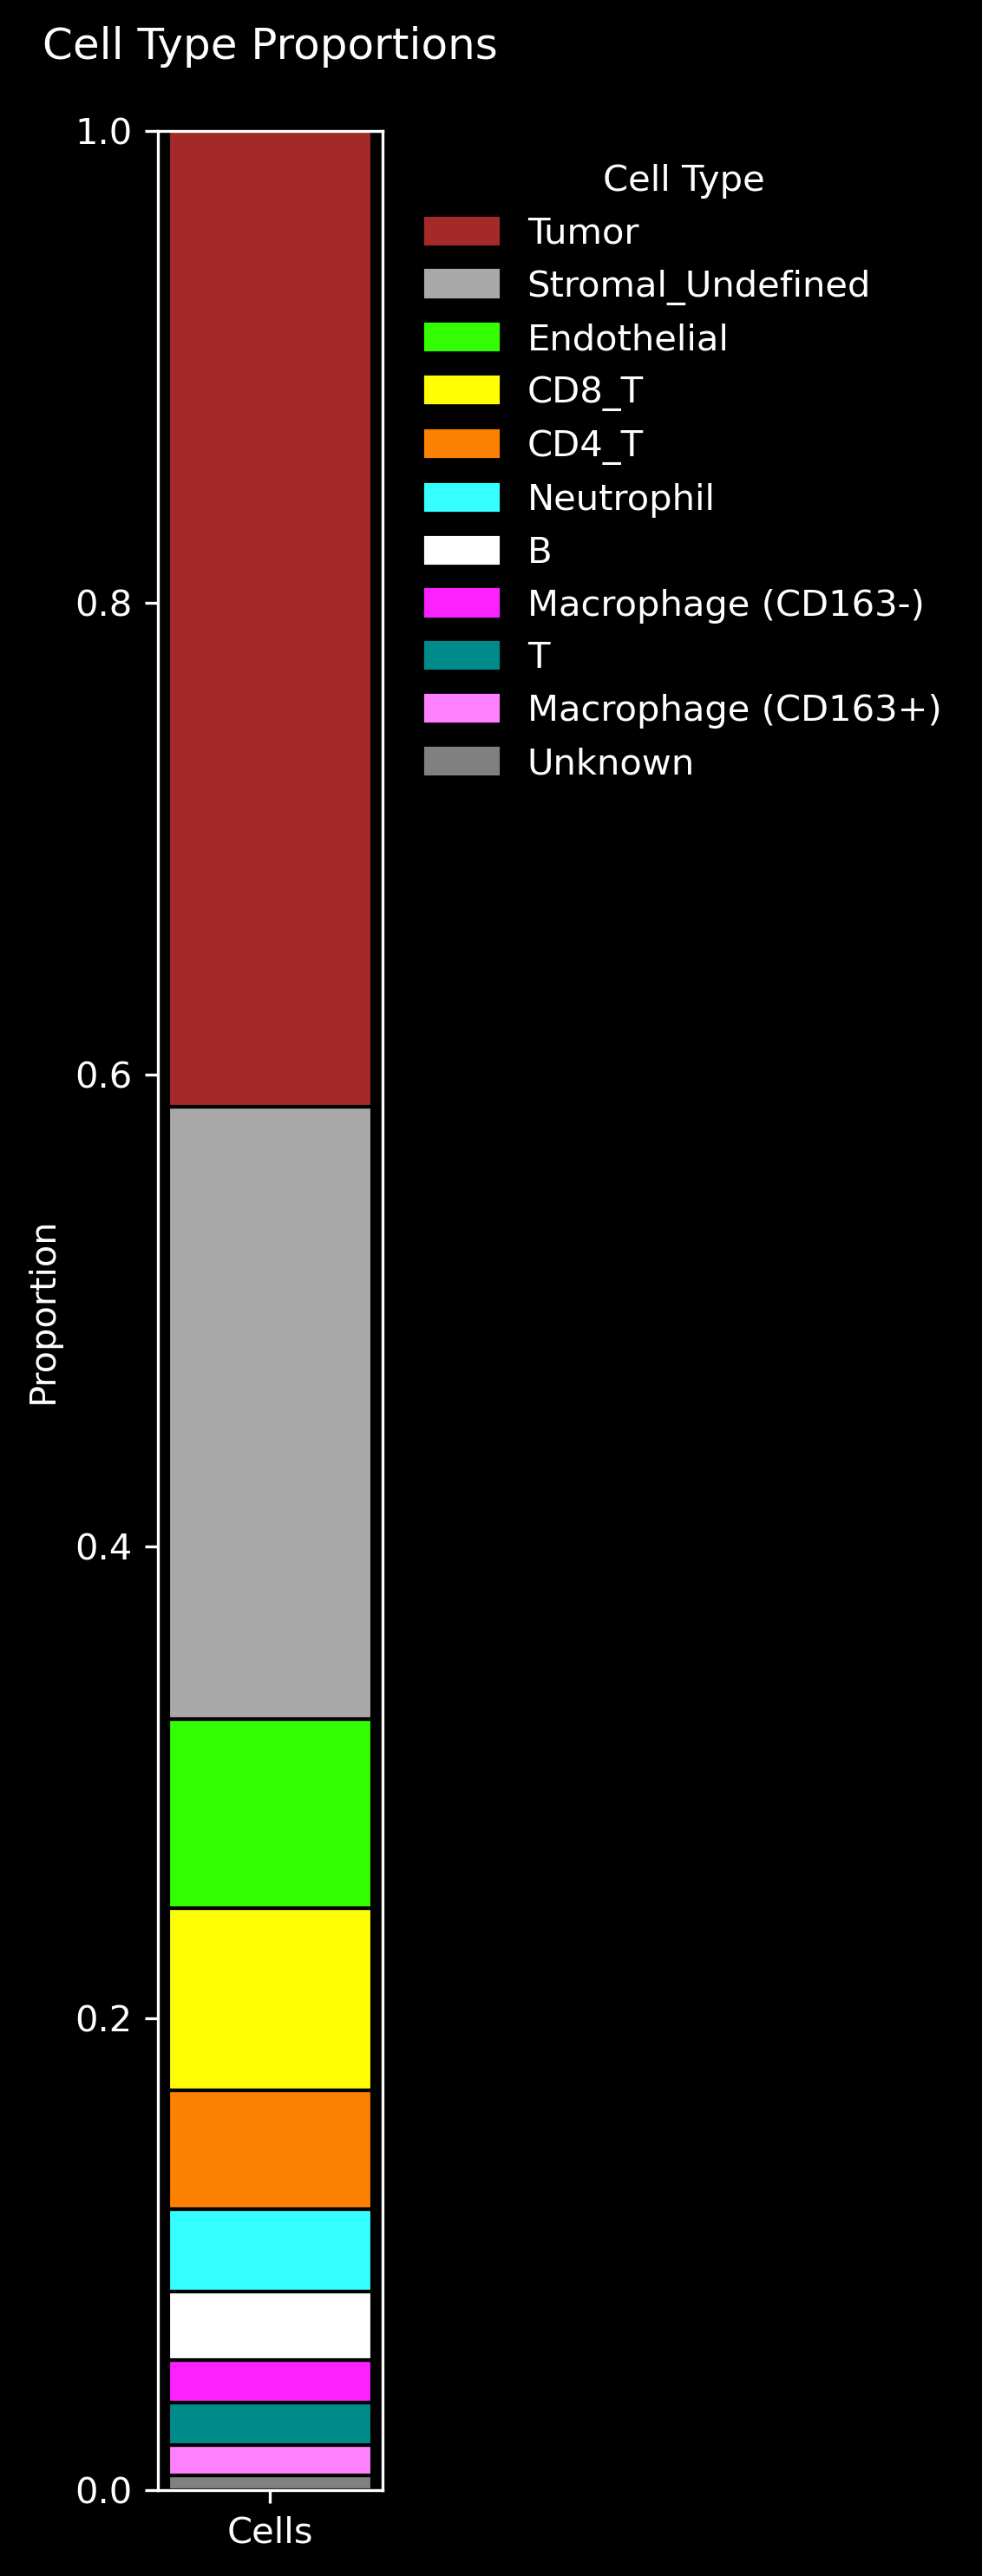
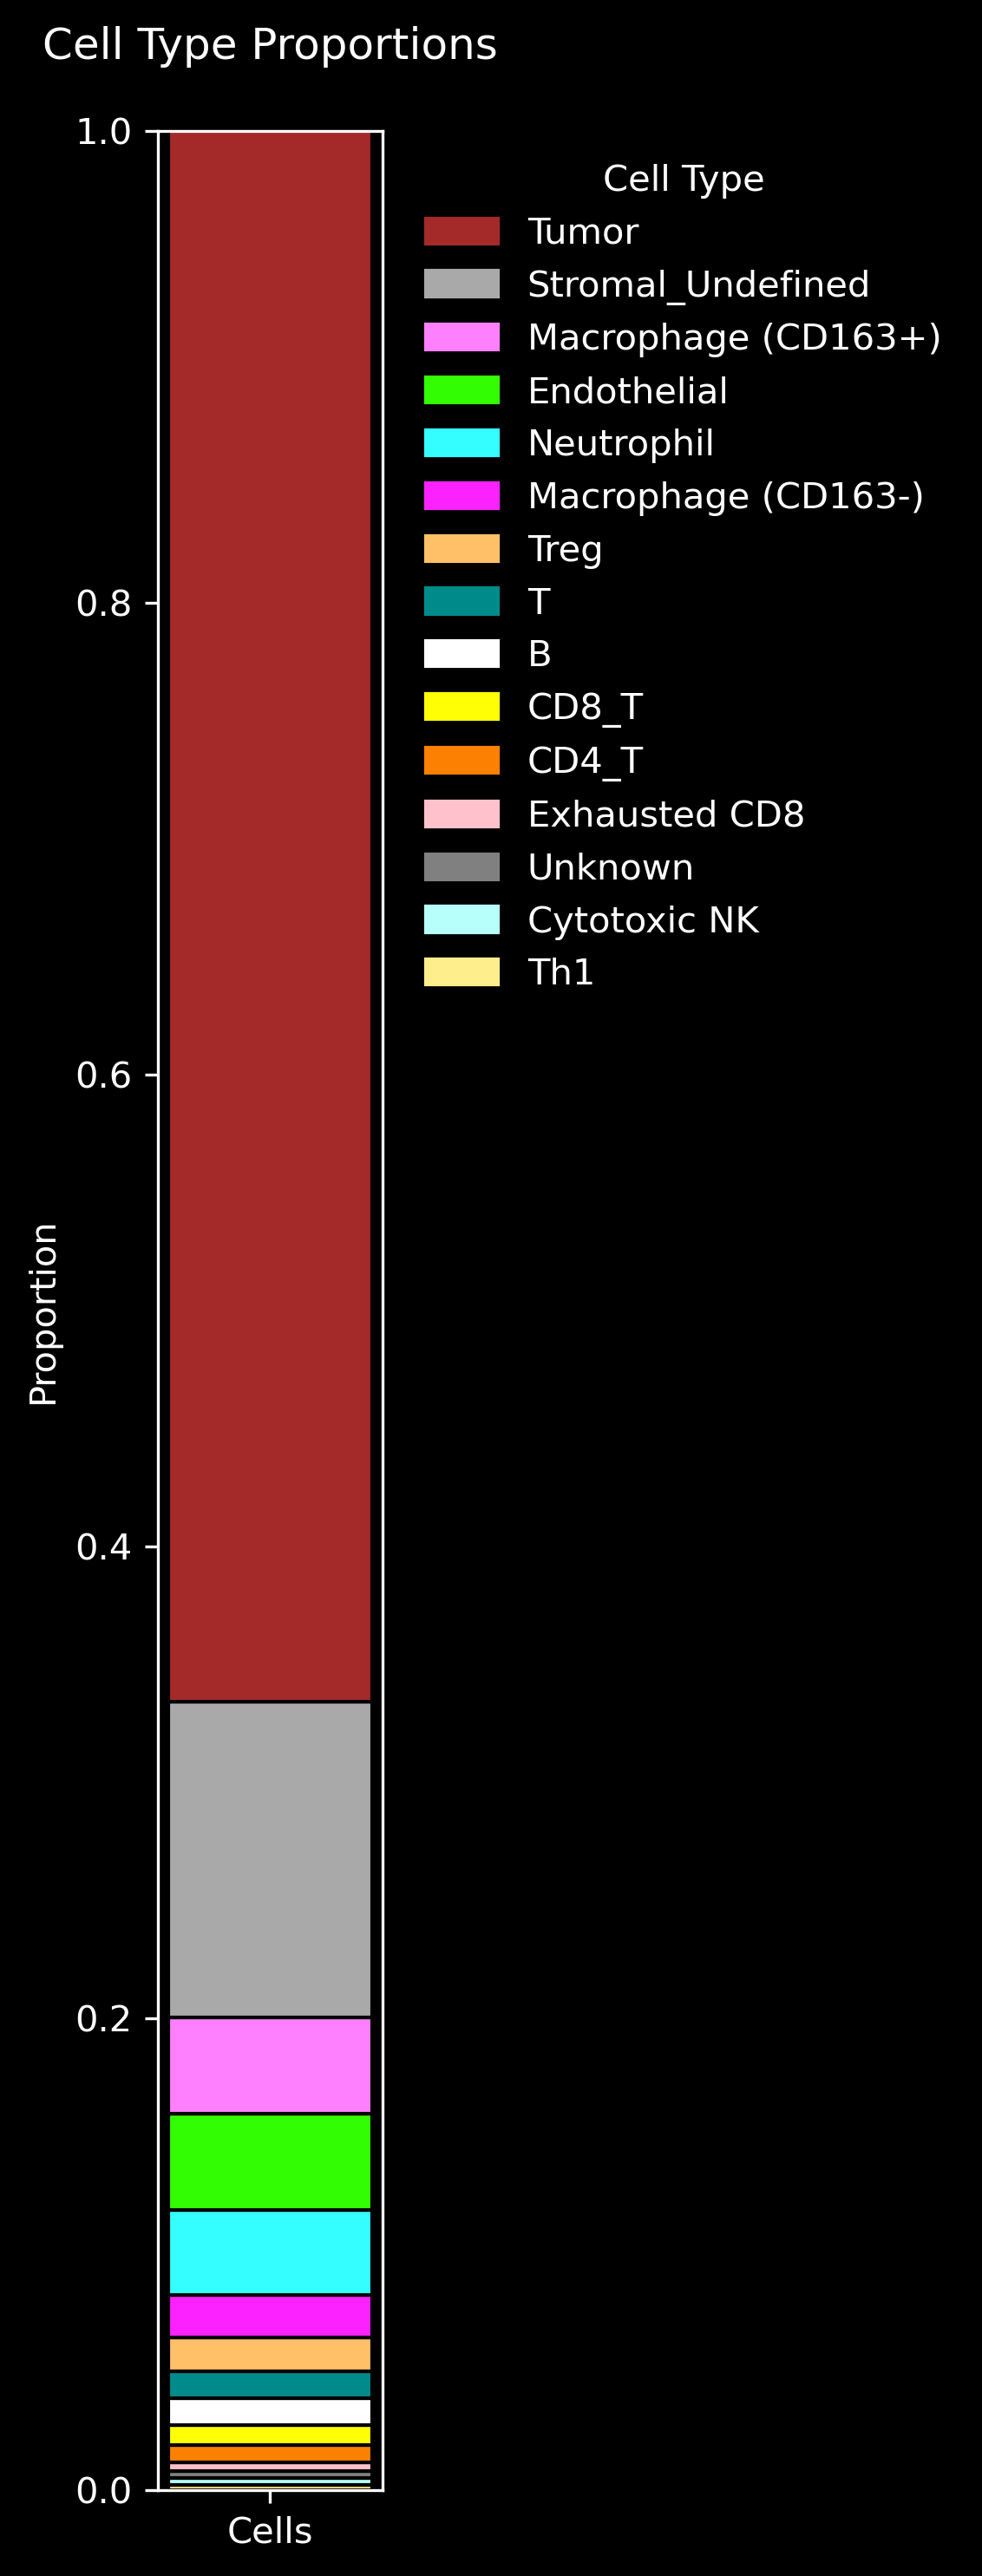
update images/instructions in celesta readme

diff --git a/docs/README_celesta.md b/docs/README_celesta.md
@@ -4,7 +4,7 @@ All credit goes to the Plevritis Lab for this wonderful library! For more detail
 
 ## Testing `celesta` environment
 
-See `README_celesta_env.md` for details on activating/setting up the `celesta` conda environment. Hopefully the one I've created on the shared lab miniconda works for everyone.
+See `README_celesta_env.md` for details on activating/setting up the `celesta` conda environment.
 
 You can test this with:
 
@@ -18,37 +18,48 @@ And in R,
 library(CELESTA)
 ```
 
-## Preparing CELESTA inputs
+## CELESTA inputs
 
-CELESTA requires two main inputs in CSV format: **prior marker information** ([example spreadsheet](https://docs.google.com/spreadsheets/d/1xc_mcczZ0B0EAhWt6SpMEdjmpPlIWInAd9OLzNKNgkI/edit?usp=sharing)) and **imaging data** (`notebooks/celesta_data_prep_cervical.ipynb`). 
+CELESTA requires two main inputs in CSV format: **prior marker information** and **imaging data**. 
 
-1. **Prior marker info (CSV):** Contains cell type name, lineage levels, and marker expression probability 0/1 per cell type. Each row should correspond to a cell type.
+### 1. Prior marker info
+
+Contains a matrix of cell types (rows) by name, lineage level, and expected expression probability (0/1) per biomarker (columns).
     
-    Sometimes it is easier to visualize it as a flowchart first:
+Sometimes it is easier to visualize it as a flowchart first:
 
-    ![image](img/prior_marker_info_flowchart.png)
+![image](img/prior_marker_info_flowchart.png)
 
-    This is how it translates into tabular form:
+This is how it translates into tabular form:
 
-    ![image](img/prior_marker_info.png)
+![image](img/prior_marker_info.png)
     
-2. **Imaging data (CSV):** Contains X/Y coordinates and raw expression levels per marker. Each row should correspond to an individual cell.
+### 2. Imaging data
 
-    ![image](img/imaging_data.png)
+Contains X/Y coordinates and raw expression levels per marker. Each row should correspond to an individual cell.
 
-Aside from these, you will also need to input high and low marker expression probability thresholds for anchor and iteration cells. Low thresholds can be set to 1 for all cells, but high thresholds need to be tuned. 
+![image](img/imaging_data.png)
 
-This [example spreadsheet](https://docs.google.com/spreadsheets/d/1xc_mcczZ0B0EAhWt6SpMEdjmpPlIWInAd9OLzNKNgkI/edit?usp=sharing) also contains `high_thresholds` sheets where you can easily edit thresholds per cell type and output it into a format that CELESTA will accept:
+### 3. Thresholds
+
+CELESTA requires high and low marker expression probability thresholds for anchor and iteration cells. Default thresholds may be used at first, but tuning high thresholds is recommended.
 
 ![image](img/high_thresholds.png)
 
 ## Running CELESTA step-by-step 
 
-*Note: This gives you more control over each step. It also allows you to test a bunch of thresholds on an existing CELESTA object rather than having to build the object from scratch every time.*
-
 Clone the `CC_codeximaging` repo and navigate to `bash_scripts`. Note that whenever you run a bash script, there are arguments you will need to edit according to your needs.
 
-### 1. Run `celesta_create_obj.sh` to create a CELESTA object.
+### 1. Prepare inputs.
+
+Prepare in a separate spreadsheet and save as CSV ([example spreadsheet](https://docs.google.com/spreadsheets/d/1xc_mcczZ0B0EAhWt6SpMEdjmpPlIWInAd9OLzNKNgkI/edit?usp=sharing)).
+
+Prepare by running `celesta_imaging_data_prep.sh`.
+
+Prepare thresholds using this [example spreadsheet](https://docs.google.com/spreadsheets/d/1xc_mcczZ0B0EAhWt6SpMEdjmpPlIWInAd9OLzNKNgkI/edit?usp=sharing) also contains `high_thresholds` sheets where you can easily edit thresholds per cell type and output it into a format that CELESTA will accept:
+
+
+### 2. Run `celesta_create_obj.sh` to create a CELESTA object.
 
 This will also output a CSV file of marker expression probability.
 
@@ -67,7 +78,7 @@ You will need to edit these arguments:
 * `imaging_data`: Path to imaging data CSV.
 * `results_dir`: Path to directory where you want *all* of your CELESTA results to go. The script will automatically create a subfolder named after `project_title` here.
 
-### 2. Plot expression probability with `celesta_plot_exp_prob.sh`.
+### 3. Plot expression probability with `celesta_plot_exp_prob.sh`.
 
 This will help you choose thresholds when assigning cell types.
 
@@ -81,17 +92,9 @@ You will need to edit these arguments:
 * `project_title:` Use same value as in `celesta_create_obj.sh`. This should be the name of the subfolder containing all results.
 * `results_dir`: Use same value as in `celesta_create_obj.sh`. This should be the parent directory of the `project_title` subdir.
 
-I've made my own script to plot expression probability because I think it looks better than CELESTA's plots. Case in point:
+<img src="img/plot_exp_prob.png" height="600"/>
 
-<img src="img/celesta_CD3e_exp_prob.png" alt="CELESTA CD3e" width="600"/>
-
-*CELESTA's expression probability plot for CD3e in one of our samples. Notice that points are large and overlapping, making it hard to select an appropriate threshold.*
-
-<img src="img/yumi_CD3e_exp_prob.png" alt="Yumi CD3e" width="600"/>
-
-*Yumi's expression probability plot for the same marker and sample. The points are smaller with less overlap, and points with higher probability are plotted on top.*
-
-### 3. Assign cell types with `celesta_assign_cells.sh`.
+### 4. Assign cell types with `celesta_assign_cells.sh`.
 
 You will need to edit these arguments:
 
@@ -115,7 +118,7 @@ For `high_anchor` and `high_iter`, you can use this [example spreadsheet](https:
 
 *Note: Output filenames will contain the full lists of `high_anchor` and `high_iter` thresholds. There is probably a better way to do this, but this is how it is for now.*
 
-### 4. Plot results with `celesta_plot_results.sh` and `celesta_plot_interactive_assignments.sh`.
+### 5. Plot results with `celesta_plot_results.sh` and `celesta_plot_interactive_assignments.sh`.
 
 `celesta_plot_results.sh` generates a stacked bar plot of cell type proportions and a spatial plot of cell type assignments *for each* `final_cell_type_assignment.csv` file generated by the previous step. `celesta_plot_interactive_assignments.sh` generates interactive spatial plots of cell type assignments.
 
@@ -136,7 +139,9 @@ Example plots:
   <img src="img/plot_cell_assignments.png" alt="Cell Assignments" height="600" style="vertical-align: top;"/>
 </p>
 
-## Running full CELESTA pipeline
+### 6. Upload results to OMERO.
+
+## Running full native CELESTA pipeline (not recommended)
 
 This creates a CELESTA object, assigns cells, plots expression probability, and plots cell assignments using built-in CELESTA functions. 
 
@@ -169,29 +174,29 @@ You will need to edit these arguments:
 
 ## CELESTA outputs
 
-Outputs will be saved to `results_dir/project_title/` as specified in the bash script you ran (any in the above section).
+Outputs will be saved to `results_dir/project_title/` as specified in the bash script.
 
 1. `celesta_full_pipeline.sh` outputs:
     * CELESTA object without cell type assignments (RDS)
     * CELESTA object with cell type assignments (RDS)
     * Final cell assignments (CSV)
-    * Cell assignment plot
-    * Marker expression probability plots
+    * Cell assignment plot (PNG)
+    * Marker expression probability plots (PNG)
 
 2. `celesta_create_obj.sh` outputs:
     * CELESTA object without cell type assignments (RDS)
     * Marker expression probability (CSV)
 
 3. `celesta_create_obj.sh` outputs:
-    * Marker expression probability plots
+    * Marker expression probability plots (PNG)
 
 4. `celesta_assign_cells.sh` outputs:
     * CELESTA object with cell type assignments (RDS)
     * Final cell assignments (CSV)
 
 5. `celesta_plot_results.sh` outputs:
-    * Cell type proportions stacked bar plot for each `final_cell_type_assignment.csv` file
-    * Spatial plot of cell type assignments for each `final_cell_type_assignment.csv` file
+    * Cell type proportions stacked bar plot for each `final_cell_type_assignment.csv` file (PNG)
+    * Spatial plot of cell type assignments for each `final_cell_type_assignment.csv` file (PNG)
 
 6. `celesta_plot_interactive_assignments.sh` outputs:
     * Interactive spatial plot of cell type assignments for each `final_cell_type_assignment.csv` file (HTML)